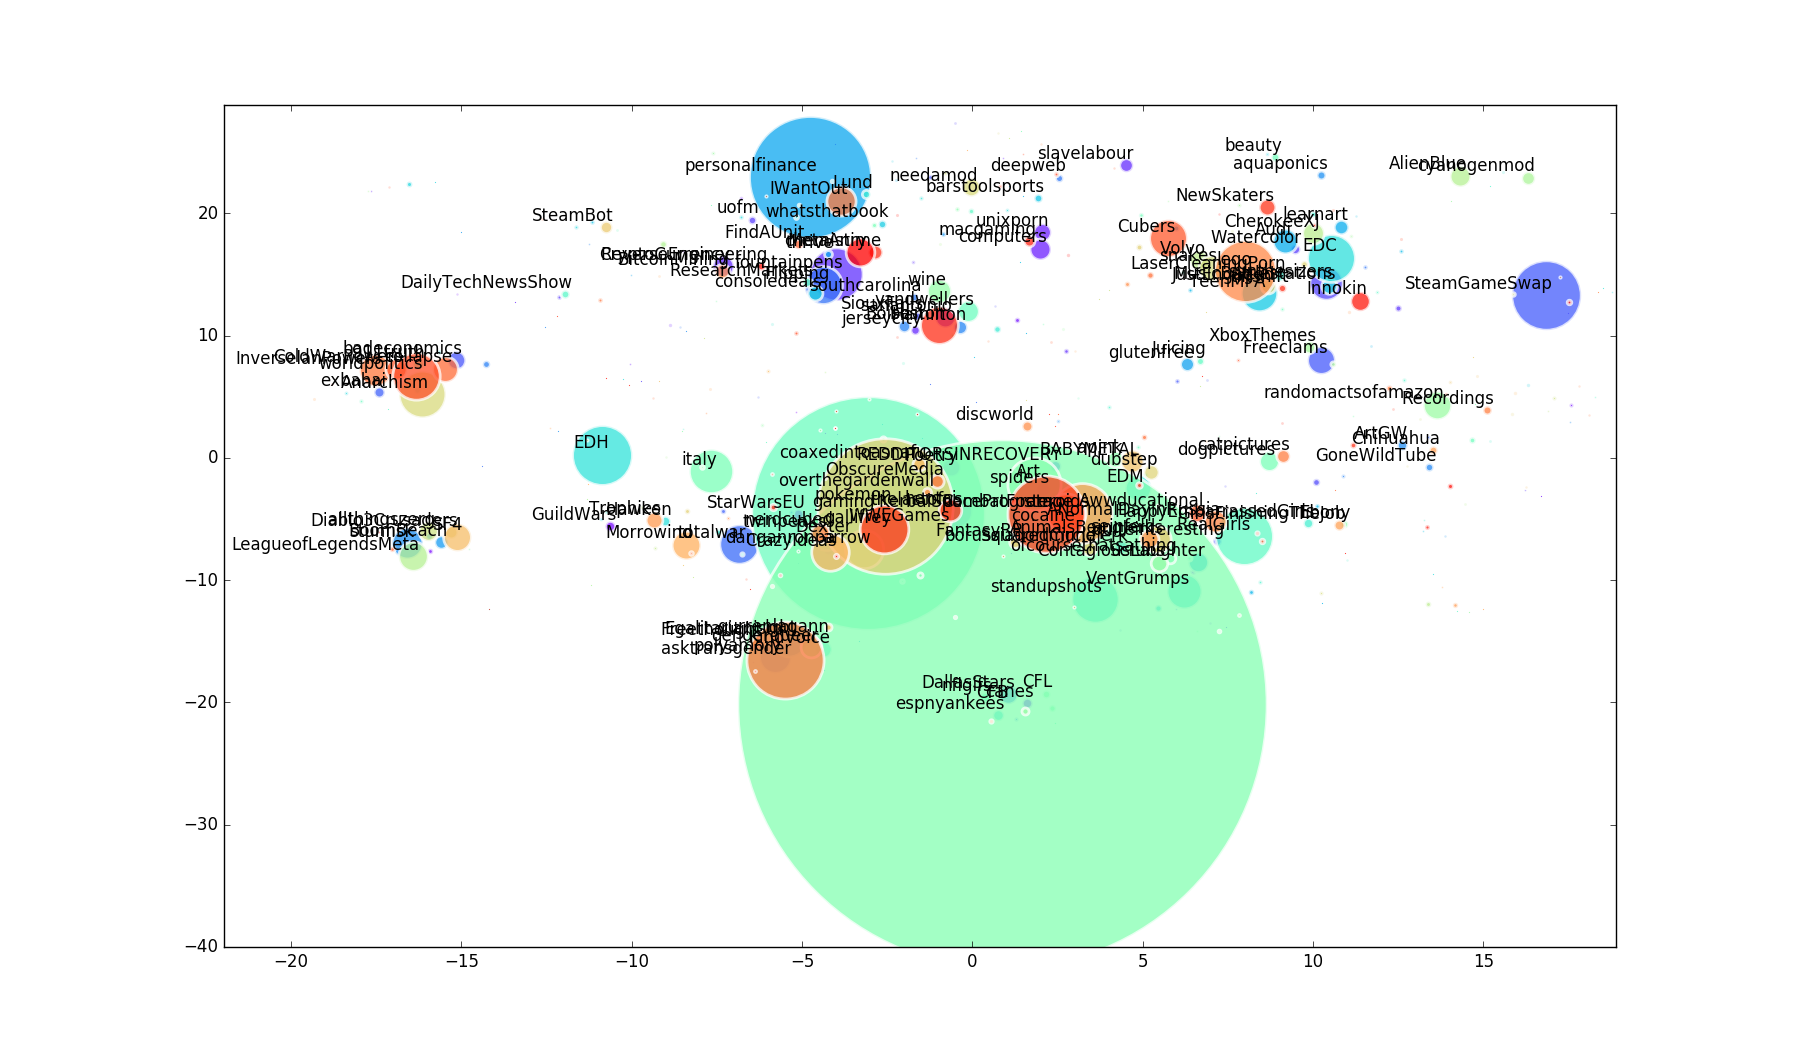
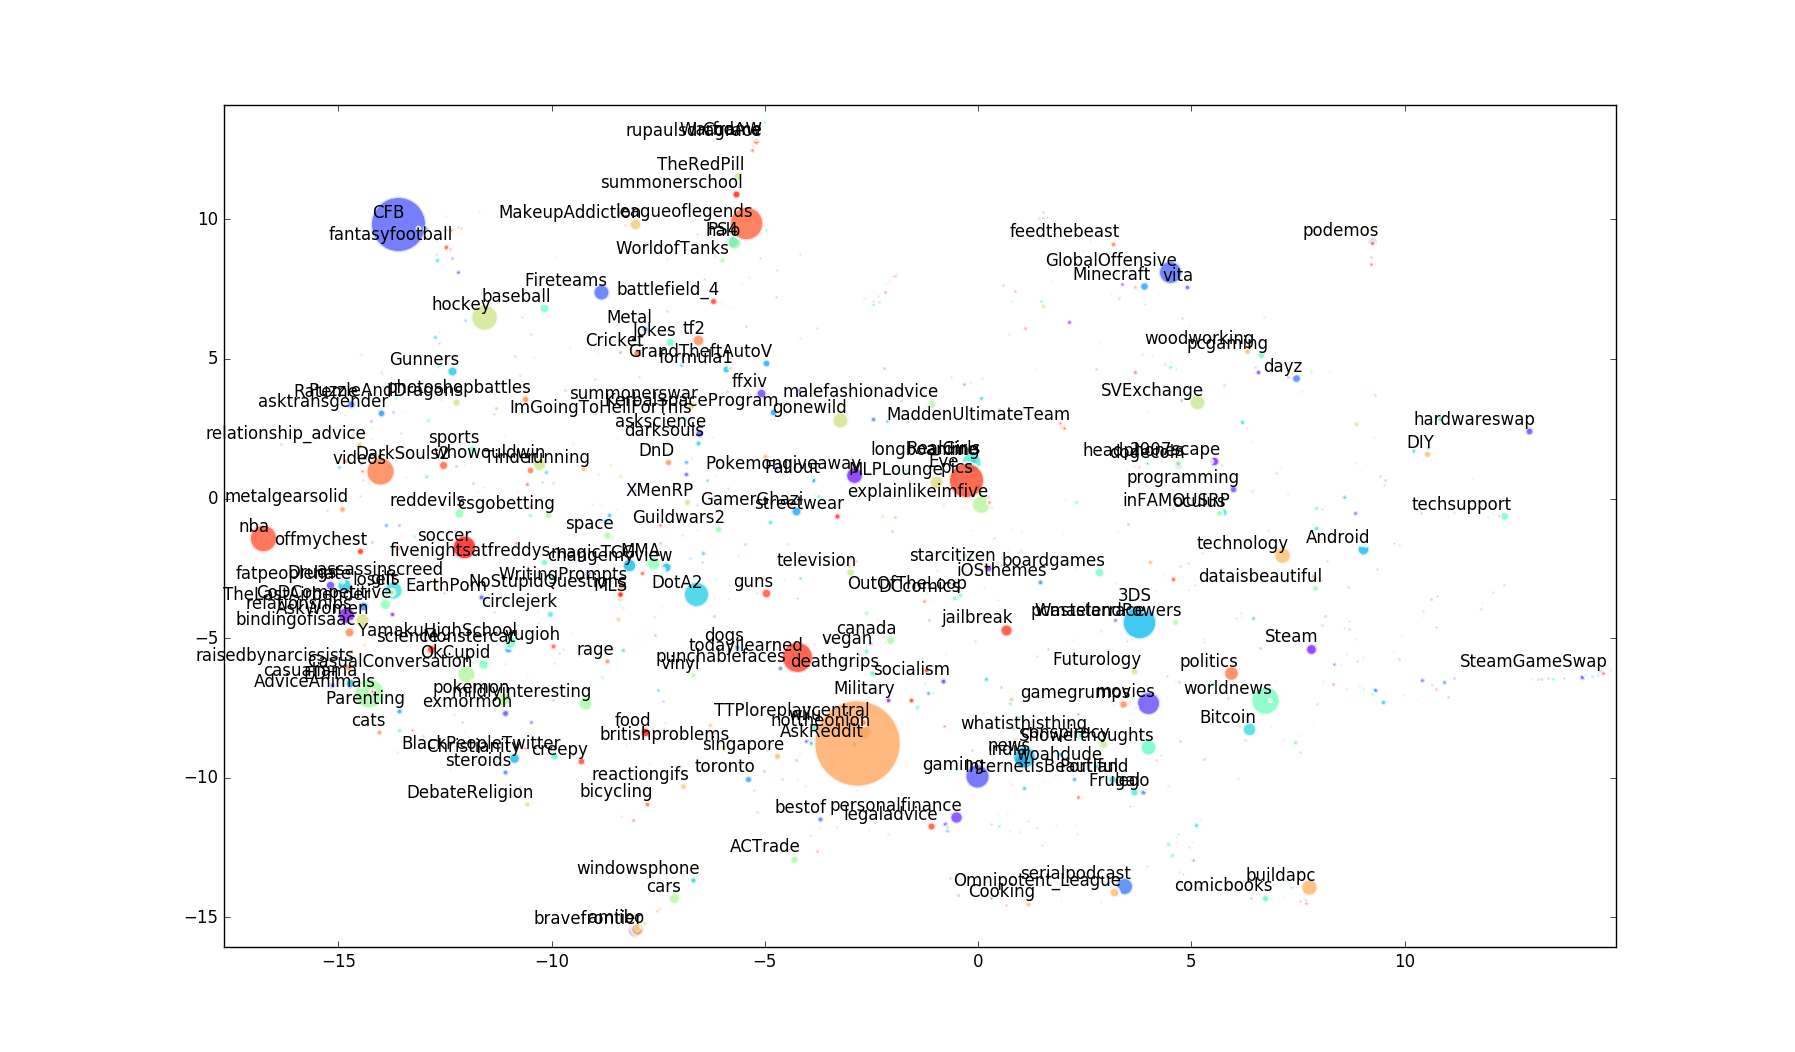
Add images

diff --git a/4-LDA-On-Tfidf/run.py b/4-LDA-On-Tfidf/run.py
@@ -156,116 +156,116 @@ def print_general_subreddit_topic():
     """
     ldamodel.print_topics(100)
 
-print_general_subreddit_topic()
+# print_general_subreddit_topic()
 
-# # Return all topics probability distribution for each document, instead of clipping value using threshold.
-# def get_doc_topics(lda, bow):
-#     gamma, _ = lda.inference([bow])
-#     topic_dist = gamma[0] / sum(gamma[0])
-#     # return [(topic_id, topic_value) for topic_id, topic_value in enumerate(topic_dist)]
-#     return topic_dist # return direct value
+# Return all topics probability distribution for each document, instead of clipping value using threshold.
+def get_doc_topics(lda, bow):
+    gamma, _ = lda.inference([bow])
+    topic_dist = gamma[0] / sum(gamma[0])
+    # return [(topic_id, topic_value) for topic_id, topic_value in enumerate(topic_dist)]
+    return topic_dist # return direct value
 
 
-# # Covert the comments from data into a topic vector, for now given 100 topics, each vector will be 
-# # of length 100, indicating the probability from each topic.
-# rc_tvec = []
-# for doc_term_vec in doc_term_matrix:
-#     topic_dist = get_doc_topics(ldamodel, doc_term_vec)
-#     rc_tvec.append(topic_dist)
-#     # topic_dist = ldamodel[doc_term_vec] # Bad, only shows top several topics; it clips the topic value under threshold.
+# Covert the comments from data into a topic vector, for now given 100 topics, each vector will be 
+# of length 100, indicating the probability from each topic.
+rc_tvec = []
+for doc_term_vec in corpus_tfidf:
+    topic_dist = get_doc_topics(ldamodel, doc_term_vec)
+    rc_tvec.append(topic_dist)
+    # topic_dist = ldamodel[doc_term_vec] # Bad, only shows top several topics; it clips the topic value under threshold.
     
 
 
-# # Below are tasks utilizing the above model.
+# Below are tasks utilizing the above model.
 
 
-# # pprint(rc_tvec)
-# # Print the topic-words distribution for some specific topics.
-# import operator
-# def print_specific_subreddit_topic():    
-#     dominant_counter = 0
-#     for label, topic_dist_vec in zip(subreddits, rc_tvec):
-#         index, value = max(enumerate(topic_dist_vec), key=operator.itemgetter(1))
-#         if label in ["apple", "anime", "sports", "nba", "4chan", "PS4", "technology", "Music"]:
-#             print "For subreddit: ", label, " , the dominant topic is: ", index, " with prob: ", value, ldamodel.show_topic(index, topn=20)
-#         if value > 0.5:
-#             dominant_counter += 1
-#     print "From ", len(subreddits), " all subreddit, ", dominant_counter, " of all owns a dominant topics"
+# pprint(rc_tvec)
+# Print the topic-words distribution for some specific topics.
+import operator
+def print_specific_subreddit_topic():    
+    dominant_counter = 0
+    for label, topic_dist_vec in zip(subreddits, rc_tvec):
+        index, value = max(enumerate(topic_dist_vec), key=operator.itemgetter(1))
+        if label in ["apple", "anime", "sports", "nba", "4chan", "PS4", "technology", "Music"]:
+            print "For subreddit: ", label, " , the dominant topic is: ", index, " with prob: ", value, ldamodel.show_topic(index, topn=20)
+        if value > 0.5:
+            dominant_counter += 1
+    print "From ", len(subreddits), " all subreddit, ", dominant_counter, " of all owns a dominant topics"
 
 
-# def print_general_subreddit_topic():
-#     """
-#     Randomly print out 20 topics for human inspection.
-#     """
-#     ldamodel.print_topics(20)
+def print_general_subreddit_topic():
+    """
+    Randomly print out 20 topics for human inspection.
+    """
+    ldamodel.print_topics(20)
 
 
 
-# def find_dom_topic_vec(name):
-#     """
-#     Assume a subreddit can be represented by its most dominant topic vector. (currently ignore less dominant topics, 
-#     as one subreddit can cover several topics). 
-#     if name not appear in the subreddits list(all subreddit label from data), return -1.
-#     """
-#     if name not in subreddits:
-#         print("subreddit not in list...")
-#         return -1
-#     else:
-#         subreddits_index = subreddits.index(name)
-#         topic_vec = rc_tvec[subreddits_index]
-#         dom_topic_index, prob = max(enumerate(topic_vec), key=operator.itemgetter(1))
-#         return dom_topic_index
+def find_dom_topic_vec(name):
+    """
+    Assume a subreddit can be represented by its most dominant topic vector. (currently ignore less dominant topics, 
+    as one subreddit can cover several topics). 
+    if name not appear in the subreddits list(all subreddit label from data), return -1.
+    """
+    if name not in subreddits:
+        print("subreddit not in list...")
+        return -1
+    else:
+        subreddits_index = subreddits.index(name)
+        topic_vec = rc_tvec[subreddits_index]
+        dom_topic_index, prob = max(enumerate(topic_vec), key=operator.itemgetter(1))
+        return dom_topic_index
 
 
-# def load_author_from_mongo():
-#     # use pymongo to load large chunk of data from mongo.
-#     if not os.path.exists('author_topics.pkl'):
-#         # Use pymongo to achieve same effect as below codes. 
+def load_author_from_mongo():
+    # use pymongo to load large chunk of data from mongo.
+    if not os.path.exists('author_topics.pkl'):
+        # Use pymongo to achieve same effect as below codes. 
 
-#         pipe = [
-#             {'$group': {
-#                 '_id': '$author',
-#                 'contributions': { '$push':  { 'subreddit': "$subreddit", 'ups': "$ups" } },
-#                 'subredditset': {'$addToSet': "$subreddit"}
-#             }},
-#             {'$addFields': { 'subredditnum': { '$size': "$subredditset" } } },
-#             { "$project": { 
-#                 "subredditset": 0
-#             }},
-#             {'$match': {'subredditnum': {'$gt': 5}} }
-#         ]
+        pipe = [
+            {'$group': {
+                '_id': '$author',
+                'contributions': { '$push':  { 'subreddit': "$subreddit", 'ups': "$ups" } },
+                'subredditset': {'$addToSet': "$subreddit"}
+            }},
+            {'$addFields': { 'subredditnum': { '$size': "$subredditset" } } },
+            { "$project": { 
+                "subredditset": 0
+            }},
+            {'$match': {'subredditnum': {'$gt': 5}} }
+        ]
 
-#         data = defaultdict(dict)
-#         counter = 0
-#         for document in db.docs_l2.aggregate(pipeline = pipe, allowDiskUse = True):
-#             counter += 1
-#             print "Processing #%d author"%(counter)
-#             reddit_ups_data = defaultdict(int)
-#             for reddit in document['contributions']:
-#                 reddit_ups_data[reddit['subreddit']] += 1 # use reddit["ups"] or simply 1?
-#             reddit_dom_topic_vec = defaultdict(dict)
-#             for name in reddit_ups_data.iterkeys():
-#                 reddit_dom_topic_vec[name] = find_dom_topic_vec(name)
+        data = defaultdict(dict)
+        counter = 0
+        for document in db.docs_l2.aggregate(pipeline = pipe, allowDiskUse = True):
+            counter += 1
+            print "Processing #%d author"%(counter)
+            reddit_ups_data = defaultdict(int)
+            for reddit in document['contributions']:
+                reddit_ups_data[reddit['subreddit']] += 1 # use reddit["ups"] or simply 1?
+            reddit_dom_topic_vec = defaultdict(dict)
+            for name in reddit_ups_data.iterkeys():
+                reddit_dom_topic_vec[name] = find_dom_topic_vec(name)
             
-#             data[document['_id']]['contributions'] = reddit_ups_data
-#             data[document['_id']]['topicvecs'] = reddit_dom_topic_vec
-#             # print(data)
+            data[document['_id']]['contributions'] = reddit_ups_data
+            data[document['_id']]['topicvecs'] = reddit_dom_topic_vec
+            # print(data)
 
 
-#         pickle.dump(data, open("author_topics.pkl", 'wb'))
-#         return data
-#     else:
-#         data = pickle.load(open("author_topics.pkl", 'rb'))
-#         print("author topics model loaded...")
-#         return data
+        pickle.dump(data, open("author_topics.pkl", 'wb'))
+        return data
+    else:
+        data = pickle.load(open("author_topics.pkl", 'rb'))
+        print("author topics model loaded...")
+        return data
 
 
 # author_topics = load_author_from_mongo()
 
 
-# """
-# Below are calculating pairwise topic similarity.
-# """
+"""
+Below are calculating pairwise topic similarity.
+"""
 
 # import numpy as np
 # from scipy.spatial.distance import pdist, squareform
@@ -299,82 +299,82 @@ print_general_subreddit_topic()
 #         print author, obj, score
 
 
-# # print_general_subreddit_topic()
+# print_general_subreddit_topic()
 
 
-# # # Clean the matrix; And slice with the fist 50 non empty subreddit.
-# # from sklearn.manifold import TSNE
-# # import matplotlib.pyplot as plt
-# # import matplotlib.cm as cm
-# # import numpy as np
-# # from adjustText import adjust_text
-# # import math
-# # def plot():
-# #     counter = 0
-# #     new_labels = []
-# #     new_rc_tvec = []
-# #     new_comment_counter = []
-# #     for label, t_dist, cc in zip(subreddits, rc_tvec, commentCounters):
-# #         if len(t_dist) == 0:
-# #             continue
-# #         else:
-# #             counter += 1
-# #             if counter < 500:
-# #                 new_labels.append(label)
-# #                 new_rc_tvec.append(t_dist)
-# #                 new_comment_counter.append(cc)
+# # Clean the matrix; And slice with the fist 50 non empty subreddit.
+# from sklearn.manifold import TSNE
+# import matplotlib.pyplot as plt
+# import matplotlib.cm as cm
+# import numpy as np
+# from adjustText import adjust_text
+# import math
+# def plot():
+#     counter = 0
+#     new_labels = []
+#     new_rc_tvec = []
+#     new_comment_counter = []
+#     for label, t_dist, cc in zip(subreddits, rc_tvec, commentCounters):
+#         if len(t_dist) == 0:
+#             continue
+#         else:
+#             counter += 1
+#             if counter < 1000:
+#                 new_labels.append(label)
+#                 new_rc_tvec.append(t_dist)
+#                 new_comment_counter.append(cc)
 
 
 
 
 
-# #     colors = cm.rainbow(np.linspace(0, 1, len(new_labels)))
+#     colors = cm.rainbow(np.linspace(0, 1, len(new_labels)))
 
-# #     tsne_results = TSNE(n_components=2, perplexity=40, verbose=2).fit_transform(rc_tvec)
+#     tsne_results = TSNE(n_components=2, perplexity=40, verbose=2).fit_transform(rc_tvec)
 
-# #     def tsne_plot(labels, tokens, cc):
+#     def tsne_plot(labels, tokens, cc):
         
-# #         labels = labels
-# #         tokens = tokens
+#         labels = labels
+#         tokens = tokens
         
-# #         tsne_model = TSNE(perplexity=40, n_components=2, init='pca', n_iter=2500, random_state=23)
-# #         new_values = tsne_model.fit_transform(tokens)
+#         tsne_model = TSNE(perplexity=40, n_components=2, init='pca', n_iter=2500, random_state=23)
+#         new_values = tsne_model.fit_transform(tokens)
 
-# #         x = []
-# #         y = []
-# #         for value in new_values:
-# #             x.append(value[0])
-# #             y.append(value[1])
+#         x = []
+#         y = []
+#         for value in new_values:
+#             x.append(value[0])
+#             y.append(value[1])
             
-# #         plt.figure(figsize=(16, 16)) 
-# #         # fig, ax = plt.subplots() # note we must use plt.subplots, not plt.subplot
+#         plt.figure(figsize=(16, 16)) 
+#         # fig, ax = plt.subplots() # note we must use plt.subplots, not plt.subplot
 
-# #         for i in range(len(x)):
-# #             sct = plt.scatter(x[i],y[i], color=colors[i], s=float(cc[i]), linewidths=2, edgecolor='w')
-# #             sct.set_alpha(0.75)
-# #             if float(cc[i]) > 30:
-# #                 plt.annotate(labels[i],
-# #                             xy=(x[i], y[i]),
-# #                             xytext=(5, 2),
-# #                             textcoords='offset points',
-# #                             ha='right',
-# #                             va='bottom')
-# #             # Draw cycles.
-# #             # cycle = plt.Circle((x[i],y[i]), math.log1p(float(cc[i])), fill=False)
-# #             # ax.add_artist(cycle)
+#         for i in range(len(x)):
+#             sct = plt.scatter(x[i],y[i], color=colors[i], s=(float(cc[i]) / 90 ), linewidths=2, edgecolor='w')
+#             sct.set_alpha(0.75)
+#             if float(cc[i]) > float(cc[200]):
+#                 plt.annotate(labels[i],
+#                             xy=(x[i], y[i]),
+#                             xytext=(5, 2),
+#                             textcoords='offset points',
+#                             ha='right',
+#                             va='bottom')
+#             # Draw cycles.
+#             # cycle = plt.Circle((x[i],y[i]), math.log1p(float(cc[i])), fill=False)
+#             # ax.add_artist(cycle)
 
-# #         # texts = []
-# #         # for m, n, p in zip(x, y, labels):
-# #         #     texts.append(plt.text(m, n, p))
-# #         # adjust_text(texts, only_move={'points':'y', 'text':'y'})
+#         # texts = []
+#         # for m, n, p in zip(x, y, labels):
+#         #     texts.append(plt.text(m, n, p))
+#         # adjust_text(texts, only_move={'points':'y', 'text':'y'})
 
         
-# #         plt.show()
+#         plt.show()
 
-# #     tsne_plot(new_labels, new_rc_tvec, new_comment_counter)
+#     tsne_plot(new_labels, new_rc_tvec, new_comment_counter)
 
-# #     # print(subreddits)
-# #     # pprint(ldamodel.print_topics(num_topics=100, num_words=5))
-# #     # pprint(ldamodel.print_topics(num_topics=3, num_words=3))
+#     # print(subreddits)
+#     # pprint(ldamodel.print_topics(num_topics=100, num_words=5))
+#     # pprint(ldamodel.print_topics(num_topics=3, num_words=3))
 
-# # plot()
+# plot()
